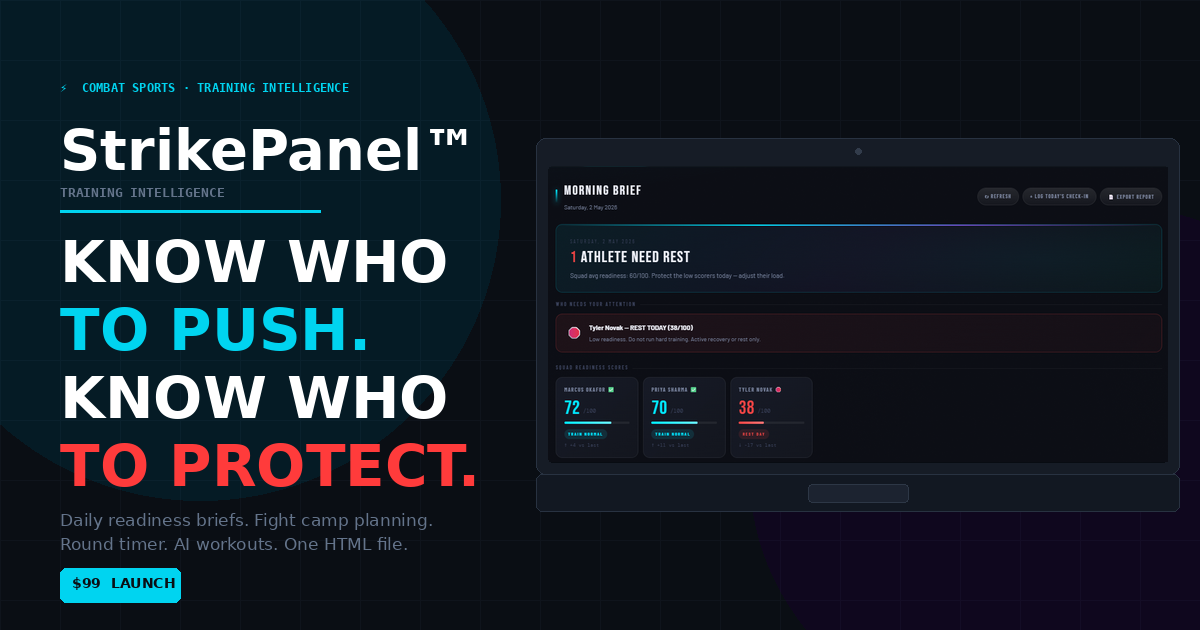
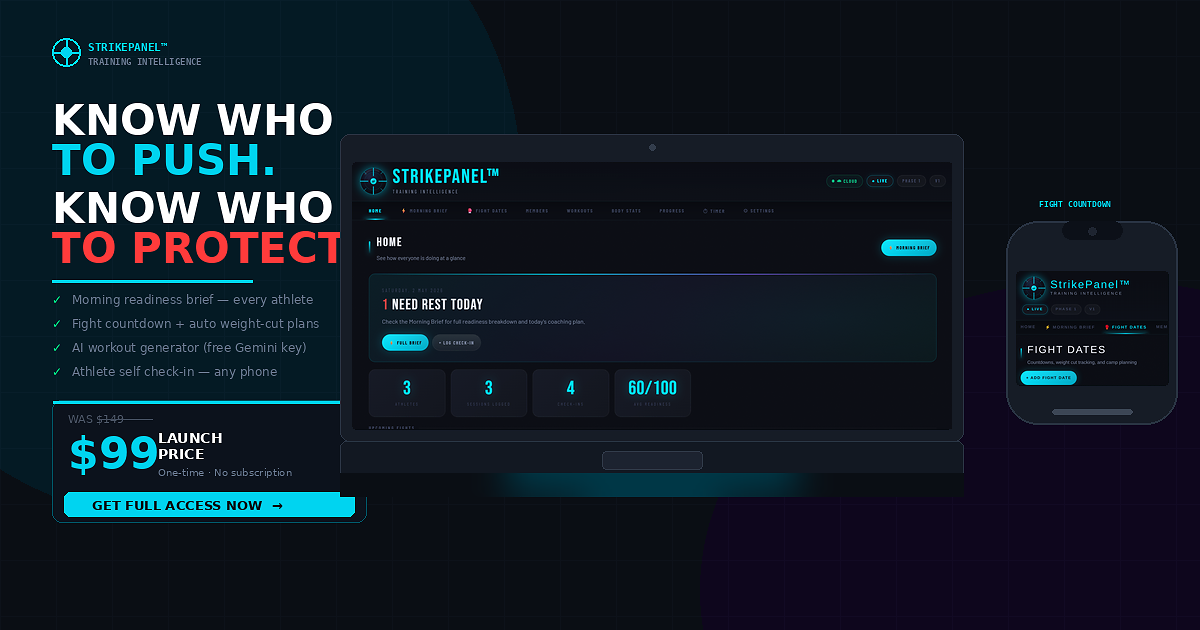
Redesign Gumroad cover: clean layout, phone mockup, proper pricing
- New layout: headline + features + pricing on left, dashboard laptop center, fight countdown phone right
- Headline scaled to 42px so "TO PROTECT." never clips
- Pricing block: WAS $149 struck / $99 large / LAUNCH PRICE / CTA pill
- Phone mockup uses 3x DPR fight-dates screenshot cropped to top 880px
- Removed per-athlete math, no app chrome in output

https://claude.ai/code/session_018Rc4dmFeRNF5az91fj64Xg

diff --git a/gen_marketing.py b/gen_marketing.py
@@ -20,12 +20,14 @@ CARD_BG = (15, 20, 30)
 
 # Source screenshots
 S = {
-    'dashboard':    Image.open(f'{SRC}/01.png').convert('RGB'),  # 1638×730
-    'morning_brief': Image.open(f'{SRC}/02.png').convert('RGB'), # 1057×505
-    'fight_dates':  Image.open(f'{SRC}/03.png').convert('RGB'),  # 265×725
-    'members':      Image.open(f'{SRC}/04.png').convert('RGB'),  # 1067×553
-    'workouts':     Image.open(f'{SRC}/05.png').convert('RGB'),  # 1067×642
-    'progress':     Image.open(f'{SRC}/06.png').convert('RGB'),  # 1050×751
+    'dashboard':      Image.open(f'{SRC}/01.png').convert('RGB'),  # 1638×730
+    'morning_brief':  Image.open(f'{SRC}/02.png').convert('RGB'),  # 1057×505
+    'fight_dates':    Image.open(f'{SRC}/03.png').convert('RGB'),  # 265×725
+    'members':        Image.open(f'{SRC}/04.png').convert('RGB'),  # 1067×553
+    'workouts':       Image.open(f'{SRC}/05.png').convert('RGB'),  # 1067×642
+    'progress':       Image.open(f'{SRC}/06.png').convert('RGB'),  # 1050×751
+    'phone_fights':   Image.open(f'{SRC}/phone-fight-dates-3x.png').convert('RGB'),  # 1170×2532
+    'phone_brief':    Image.open(f'{SRC}/phone-morning-brief-3x.png').convert('RGB'),# 1170×2532
 }
 
 # Fonts
@@ -125,58 +127,101 @@ def make_gumroad_cover():
     img = Image.new('RGB', (W, H), BG)
     d   = ImageDraw.Draw(img)
 
-    # Subtle grid overlay
-    for x in range(0, W, 60):
-        d.line([(x, 0), (x, H)], fill=(20, 26, 36), width=1)
-    for y in range(0, H, 60):
-        d.line([(0, y), (W, y)], fill=(20, 26, 36), width=1)
+    # Subtle grid
+    for x in range(0, W, 56): d.line([(x,0),(x,H)], fill=(18,24,34), width=1)
+    for y in range(0, H, 56): d.line([(0,y),(W,y)], fill=(18,24,34), width=1)
 
-    # Accent glow blobs
+    # Glow blobs: cyan top-left, purple bottom-right
     glow = Image.new('RGB', (W, H), BG)
     gd = ImageDraw.Draw(glow)
-    gd.ellipse([(-100, -100), (500, 500)], fill=(0, 40, 55))
-    gd.ellipse([(750, 200), (1400, 750)], fill=(20, 0, 40))
-    img = Image.blend(img, glow, 0.5)
+    gd.ellipse([(-160,-160),(520,520)], fill=(0,36,50))
+    gd.ellipse([(700,280),(1500,900)], fill=(18,0,38))
+    img = Image.blend(img, glow, 0.55)
     d = ImageDraw.Draw(img)
 
-    # ── Left text block ────────────────────────────────────────
-    tx = 60
-    # Kicker
-    d.text((tx, 80), '⚡  COMBAT SPORTS · TRAINING INTELLIGENCE', font=font(MONO, 12),
-           fill=ACCENT)
-    # Logo
-    d.text((tx, 118), 'StrikePanel™', font=font(BOLD, 56), fill=WHITE)
-    d.text((tx, 184), 'TRAINING INTELLIGENCE', font=font(MONO, 13), fill=MUTED)
+    # ── LEFT COLUMN: branding + headline + pricing  (x=52..480) ──
+    tx = 52
+
+    # SP logo mark (simple circle cross)
+    lx, ly, lr = tx+14, 52, 14
+    d.ellipse([(lx-lr, ly-lr),(lx+lr, ly+lr)], outline=ACCENT, width=2)
+    d.ellipse([(lx-5, ly-5),(lx+5, ly+5)], fill=ACCENT)
+    for pt in [((lx,ly-lr),(lx,ly-6)),((lx,ly+6),(lx,ly+lr)),
+               ((lx-lr,ly),(lx-6,ly)),((lx+6,ly),(lx+lr,ly))]:
+        d.line(pt, fill=ACCENT, width=2)
+
+    d.text((tx+36, 40), 'STRIKEPANEL™', font=font(MONO, 11), fill=ACCENT)
+    d.text((tx+36, 56), 'TRAINING INTELLIGENCE', font=font(MONO, 9), fill=MUTED)
+
+    # Main headline
+    d.text((tx, 96),  'KNOW WHO', font=font(BOLD, 42), fill=WHITE)
+    d.text((tx, 136), 'TO PUSH.', font=font(BOLD, 42), fill=ACCENT)
+    d.text((tx, 184), 'KNOW WHO', font=font(BOLD, 42), fill=WHITE)
+    d.text((tx, 224), 'TO PROTECT.', font=font(BOLD, 42), fill=RED)
 
     # Divider
-    d.rectangle([(tx, 210), (tx + 260, 212)], fill=ACCENT)
+    d.rectangle([(tx, 280),(tx+200, 282)], fill=ACCENT)
 
-    # Headline
-    for i, (line, clr) in enumerate([
-        ('KNOW WHO', WHITE),
-        ('TO PUSH.', ACCENT),
-        ('KNOW WHO', WHITE),
-        ('TO PROTECT.', RED),
-    ]):
-        d.text((tx, 228 + i * 68), line, font=font(BOLD, 58), fill=clr)
+    # Feature list
+    features = [
+        'Morning readiness brief — every athlete',
+        'Fight countdown + auto weight-cut plans',
+        'AI workout generator (free Gemini key)',
+        'Athlete self check-in — any phone',
+    ]
+    fy0 = 292
+    for i, text in enumerate(features):
+        d.text((tx,    fy0 + i*24), '✓', font=font(BOLD, 12), fill=GREEN)
+        d.text((tx+20, fy0 + i*24), text, font=font(REG,  12), fill=MUTED)
 
-    # Sub
-    d.text((tx, 510), 'Daily readiness briefs. Fight camp planning.', font=font(REG, 17), fill=MUTED)
-    d.text((tx, 534), 'Round timer. AI workouts. One HTML file.', font=font(REG, 17), fill=MUTED)
-
-    # Price badge
-    badge_x, badge_y = tx, 568
-    d.rounded_rectangle([(badge_x, badge_y), (badge_x+120, badge_y+34)],
+    # Pricing block
+    py = 400
+    d.rounded_rectangle([(tx, py),(tx+314, py+122)],
+                        radius=10, fill=(12,18,28), outline=(0,80,95), width=1)
+    d.rectangle([(tx+1, py+1),(tx+313, py+3)], fill=ACCENT)
+    # Row 1: was $149 → now $99
+    d.text((tx+16, py+12), 'WAS $149', font=font(REG, 11), fill=(72,82,98))
+    d.line([(tx+16+32, py+19),(tx+16+84, py+19)], fill=(65,75,92), width=1)
+    # Big price + label side by side
+    d.text((tx+16, py+28), '$99', font=font(BOLD, 44), fill=ACCENT)
+    d.text((tx+106, py+30), 'LAUNCH', font=font(BOLD, 14), fill=WHITE)
+    d.text((tx+106, py+46), 'PRICE', font=font(BOLD, 14), fill=WHITE)
+    d.text((tx+106, py+66), 'One-time · No subscription', font=font(REG, 10), fill=MUTED)
+    # CTA pill
+    d.rounded_rectangle([(tx+12, py+92),(tx+302, py+116)],
                         radius=6, fill=ACCENT)
-    d.text((badge_x+12, badge_y+7), '$99  LAUNCH PRICE', font=font(BOLD, 14), fill=BG)
+    d.text((tx+40, py+97), 'GET FULL ACCESS NOW  →', font=font(BOLD, 13), fill=BG)
 
-    # ── Right: laptop mockup ───────────────────────────────────
-    frame = laptop_frame(S['morning_brief'], frame_w=620)
-    fw, fh = frame.size
-    fx = W - fw - 20
-    fy = (H - fh) // 2 + 10
-    img.paste(frame, (fx, fy), frame)
+    # ── CENTER: large laptop with dashboard ───────────────────
+    lap = laptop_frame(S['dashboard'], frame_w=600)
+    lw, lh = lap.size
+    lx2 = 340
+    ly2 = (H - lh) // 2 - 8
+    img.paste(lap, (lx2, ly2), lap)
 
+    # Subtle glow under laptop
+    gl = Image.new('RGB', (lw, 24), BG)
+    gl_d = ImageDraw.Draw(gl)
+    gl_d.ellipse([(lw//4, -8),(3*lw//4, 24)], fill=(0,55,70))
+    gl = gl.filter(ImageFilter.GaussianBlur(14))
+    img.paste(gl, (lx2, ly2+lh-6))
+
+    # ── RIGHT: phone frame with fight countdown (cropped top) ──
+    ph_src = S['phone_fights']
+    ph_crop = ph_src.crop((0, 0, ph_src.width, 880))  # top 880px = fight info
+    ph_frame = phone_frame(ph_crop, frame_w=152)
+    pw, phh = ph_frame.size
+    px2 = W - pw - 22
+    py2 = (H - phh) // 2 + 8
+    img.paste(ph_frame, (px2, py2), ph_frame)
+
+    # Label above phone
+    label = 'FIGHT COUNTDOWN'
+    label_x = px2 + (pw - len(label)*7) // 2
+    d.text((label_x, py2 - 22), label, font=font(MONO, 8), fill=ACCENT)
+
+    # Sharpen the whole image slightly
+    img = img.filter(ImageFilter.UnsharpMask(radius=0.5, percent=120, threshold=2))
     save(img, 'gumroad-cover-1200x630.png')
 
 
